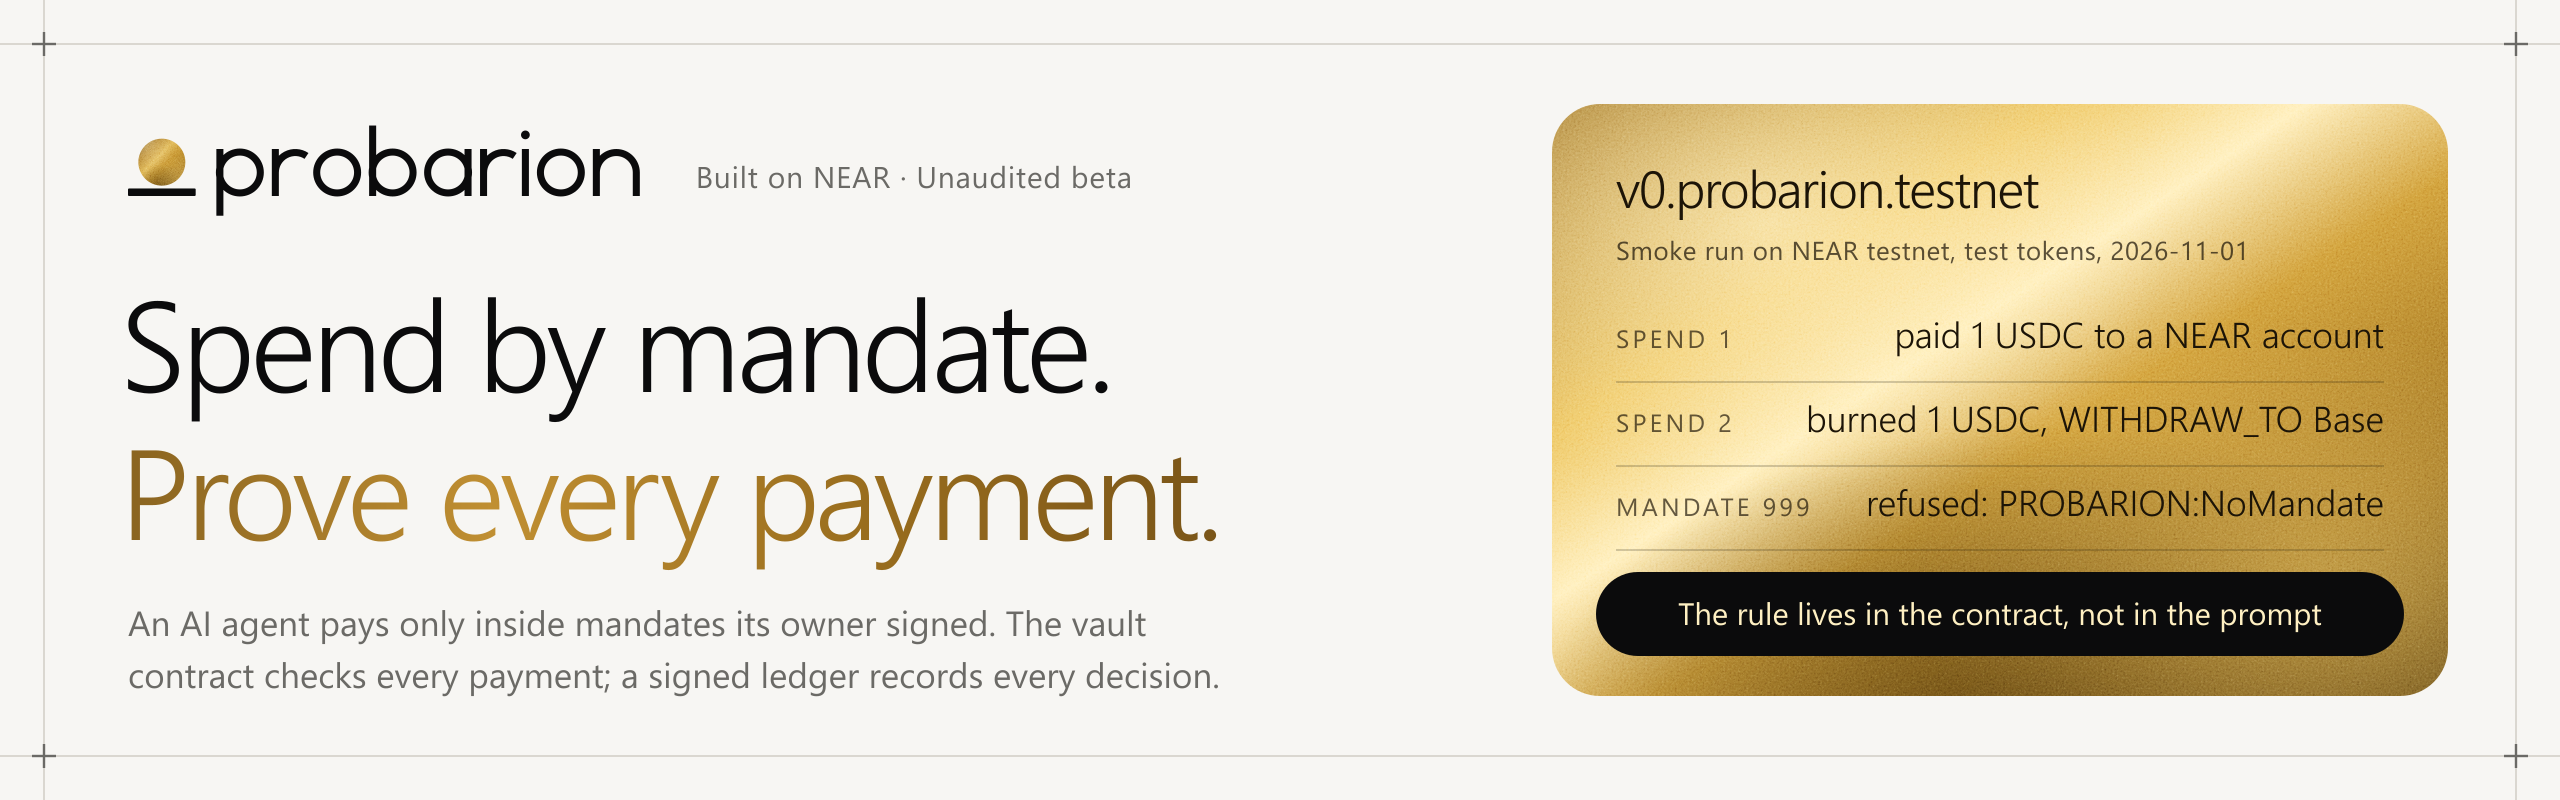
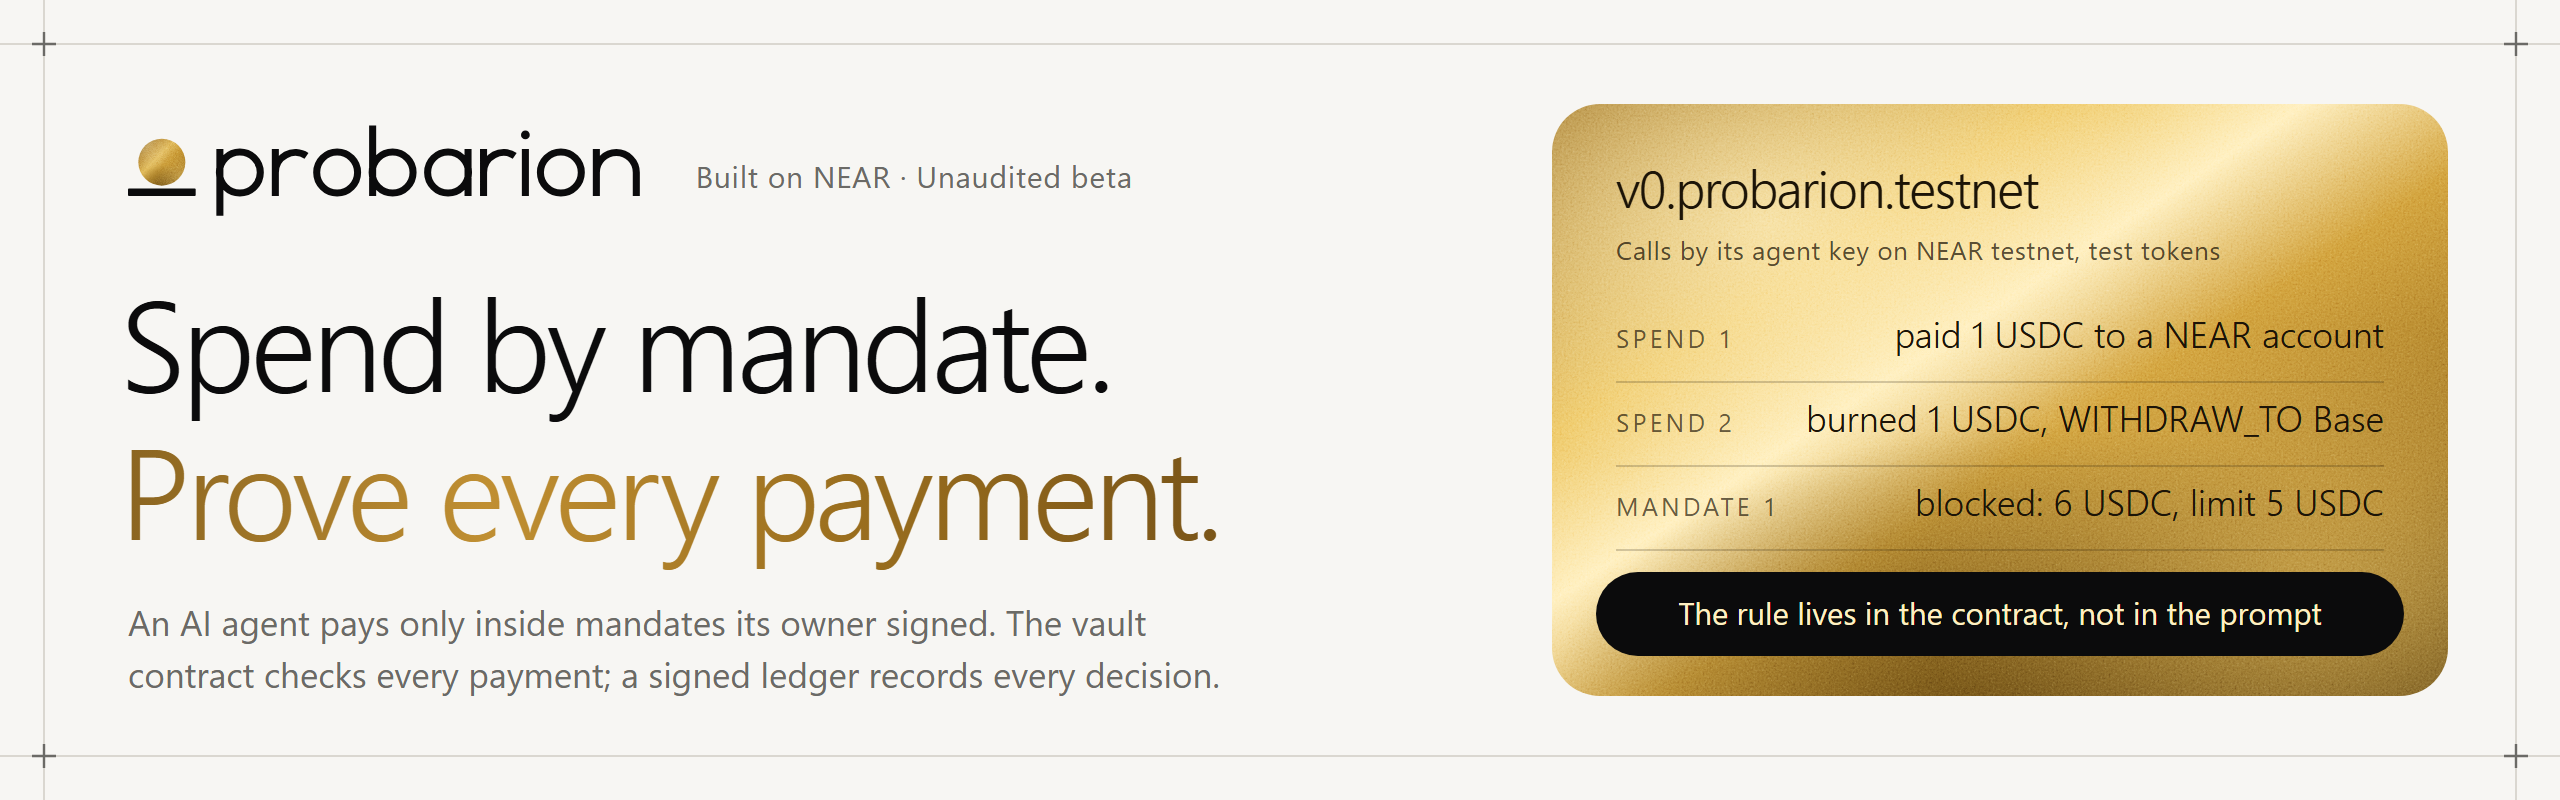
feat(site): hero refusal card shows the real OverPerPayment refusal
The landing's right hero card pointed at the smoke run's call on mandate
999, which does not exist (PROBARION:NoMandate). It now shows the refusal
sent on 2026-11-09 (site audit P1-9): the agent key asked mandate 1 for
6 test USDC, above its 5 USDC limit per payment, and the contract answered
PROBARION:OverPerPayment (tx 4715d4nbYn6cq981nmLU5y8efCoX2w3SbgW8PPq4Vsr1).

- facts.ts: TX.overPerPayment; HERO.refused shows the amount, the limit
  and the code; the note says the agent asked the contract directly.
- Hero.tsx: the card leads with the amount, then Caller, Limit, Code,
  Paid and Tx. The unused cardCode style is removed.
- testnet.json records the tx under direct_refusal.
- README: banner alt text, a new On-chain proof row, and evaluation
  step 3 reads the new tx from the archival node.
- Banner SVG row and subtitle updated; the PNG re-rendered at 2x with
  headless Edge. The SVG falls back to Segoe UI at weight 350, since
  Chromium does not know the "Segoe UI Semilight" family name.

The smoke run's NoMandate refusal stays on the on-chain list.

diff --git a/apps/web/test/site-facts.test.ts b/apps/web/test/site-facts.test.ts
@@ -245,12 +245,14 @@ describe("transactions", () => {
   const deployment = JSON.parse(text(ROOT, "contracts", "deployments", "testnet.json")) as {
     accounts: { vault_v0: string };
     smoke: { near_payment_tx: string; base_burn_tx: string; no_mandate_tx: string };
+    direct_refusal: { over_per_payment_tx: string };
   };
 
   it("match the testnet deployment record and appear in the README", () => {
     expect(TX.nearPayment.hash).toBe(deployment.smoke.near_payment_tx);
     expect(TX.baseBurn.hash).toBe(deployment.smoke.base_burn_tx);
     expect(TX.noMandate.hash).toBe(deployment.smoke.no_mandate_tx);
+    expect(TX.overPerPayment.hash).toBe(deployment.direct_refusal.over_per_payment_tx);
     for (const t of Object.values(TX)) expect(README).toContain(t.hash);
   });
 
@@ -422,10 +424,50 @@ describe("facts the site shares with the README, SECURITY.md and the deployment 
     expect(README).toContain("**Unaudited beta.** No third party has audited this code.");
   });
 
-  it("the code the contract refused with", () => {
-    expect(HERO.refused.code.join("")).toBe("PROBARION:NoMandate");
+  it("the hero's refusal: the agent key asked mandate 1 for more than its limit, and the contract said no", () => {
+    expect(HERO.refused.tx).toBe(TX.overPerPayment);
+    expect(HERO.refused.code).toBe(CONTRACT_REFUSAL_CODE);
+    expect(HERO.refused.mandate).toBe(HERO.paid.mandate);
+    expect(HERO.refused.caller).toBe(HERO.paid.caller);
+    expect(HERO.refused.paid).toBe("Nothing");
+    // The limit is mandate 1's, as step 4 and the README show it; the amount asked is above it.
+    const limit = /at most (\d+) USDC/.exec(JSON.stringify(JOURNEY.steps[3].panel))?.[1];
+    expect(HERO.refused.limit).toBe(`${limit} USDC a payment`);
+    const asked = /^(\d+) test USDC$/.exec(HERO.refused.big)?.[1];
+    expect(Number(asked)).toBeGreaterThan(Number(limit));
+    expect(README).toContain(
+      `The agent key called \`spend\` on mandate 1 for ${asked} test USDC, above its limit of ${limit} test USDC per payment`,
+    );
+    expect(README).toContain(`Refused by the contract: \`PROBARION:${HERO.refused.code}\``);
+    // Signed by the agent key itself, so no off-chain check stood in the way.
+    expect(HERO.note).toContain("asked the contract directly");
+  });
+
+  it("the smoke run's refusal stays on the on-chain list", () => {
     expect(CHAIN.rows[2].body).toContain("`PROBARION:NoMandate`");
     expect(README).toContain("PROBARION:NoMandate");
+  });
+
+  it("the hero cards as a visitor sees them: outcome first, the code below", () => {
+    const out = visibleText(landing());
+    expect(out).toContain(
+      `${HERO.refused.mandate} ${HERO.refused.state} ${HERO.refused.big} Caller ${HERO.refused.caller} Limit ${HERO.refused.limit} Code ${HERO.refused.code} Paid ${HERO.refused.paid} Tx ${HERO.refused.tx.label}`,
+    );
+    expect(HERO.refused.state).toBe("Blocked");
+    expect(out).not.toContain("Mandate 999 Refused");
+  });
+
+  it("the README banner shows the same refusal as the hero", () => {
+    const svg = text(ROOT, "docs", "assets", "readme-banner.svg");
+    const usdc = (s: string) => s.replace(" test", "").replace(" a payment", "");
+    expect(svg).toContain(
+      `>blocked: ${usdc(HERO.refused.big)}, limit ${usdc(HERO.refused.limit)}<`,
+    );
+    expect(svg).toContain(">MANDATE 1<");
+    expect(svg).not.toContain("MANDATE 999");
+    const alt = /<img src="docs\/assets\/readme-banner\.png" alt="([^"]*)"/.exec(README)?.[1] ?? "";
+    expect(alt).toContain(`PROBARION:${HERO.refused.code}`);
+    expect(alt).not.toContain("NoMandate");
   });
 
   it("what the smoke run was, and that mainnet is still planned", () => {

diff --git a/apps/web/src/lib/site/facts.ts b/apps/web/src/lib/site/facts.ts
@@ -100,6 +100,8 @@ export const TX = {
   nearPayment: tx("3DFV2thBU9V4b5w7kM691poLJ8SWiCqp46LKBn1Fy9cX", "3DFV2thB…Fy9cX"),
   baseBurn: tx("3u4ffrwpiwLoNV6cU72NHLVBAMq729NwLs6ixDLdcvYe", "3u4ffrwp…dcvYe"),
   noMandate: tx("AkjyVPmb6LdMES7ykpzJQR7EXXGvw3kYH6Nhem9YdzgY", "AkjyVPmb…dzgY"),
+  // 2026-11-09, after the smoke run: the agent key itself asked mandate 1 for 6 test USDC, above its 5 USDC limit.
+  overPerPayment: tx("4715d4nbYn6cq981nmLU5y8efCoX2w3SbgW8PPq4Vsr1", "4715d4nb…Vsr1"),
 } as const;
 
 // --- hero -----------------------------------------------------------------------------------------
@@ -124,16 +126,17 @@ export const HERO = {
     tx: TX.nearPayment,
   },
   refused: {
-    aria: "A payment the contract refused",
-    mandate: "Mandate 999",
-    state: "Refused",
-    code: ["PROBARION:", "NoMandate"],
+    aria: "A payment the contract blocked",
+    mandate: "Mandate 1",
+    state: "Blocked",
+    big: "6 test USDC",
     caller: "Agent key",
-    payee: "None on record",
+    limit: "5 USDC a payment",
+    code: "OverPerPayment",
     paid: "Nothing",
-    tx: TX.noMandate,
+    tx: TX.overPerPayment,
   },
-  note: "Two real calls by one agent key on `v0.probarion.testnet`, with test tokens. The contract decided both.",
+  note: "Two real calls by one agent key on `v0.probarion.testnet`, with test tokens. For the second, the agent asked the contract directly. The contract decided both.",
 } as const;
 
 export const PROBLEM = {

diff --git a/apps/web/src/components/site/Hero.tsx b/apps/web/src/components/site/Hero.tsx
@@ -54,19 +54,21 @@ function RefusedCard() {
         <span>{c.mandate}</span>
         <span className={s.state}>{c.state}</span>
       </div>
-      <div className={`${s.cardBig} ${s.cardCode}`}>
-        {c.code[0]}
-        <wbr />
-        {c.code[1]}
-      </div>
+      <div className={s.cardBig}>{c.big}</div>
       <dl className={s.rows}>
         <div>
           <dt>Caller</dt>
           <dd>{c.caller}</dd>
         </div>
         <div>
-          <dt>Payee</dt>
-          <dd>{c.payee}</dd>
+          <dt>Limit</dt>
+          <dd>{c.limit}</dd>
+        </div>
+        <div>
+          <dt>Code</dt>
+          <dd>
+            <code>{c.code}</code>
+          </dd>
         </div>
         <div>
           <dt>Paid</dt>

diff --git a/apps/web/src/components/site/site.module.css b/apps/web/src/components/site/site.module.css
@@ -368,14 +368,6 @@ a.netPill:hover {
   letter-spacing: -0.03em;
   overflow-wrap: anywhere;
 }
-.cardCode {
-  font-size: clamp(20px, 1.95vw, 27px);
-  font-family: var(--font-mono);
-  font-weight: 400;
-  letter-spacing: -0.03em;
-  line-height: 1.18;
-  min-height: 2.36em;
-}
 .rows {
   display: grid;
   gap: 0;
@@ -1623,9 +1615,6 @@ a.netPill:hover {
   }
   .duel {
     grid-template-columns: minmax(0, 1fr);
-  }
-  .cardCode {
-    min-height: 0;
   }
   .status {
     grid-template-columns: minmax(0, 1fr);

diff --git a/README.md b/README.md
@@ -1,6 +1,6 @@
 <div align="center">
 
-<img src="docs/assets/readme-banner.png" alt="Probarion. Spend by mandate. Prove every payment. An AI agent pays only inside mandates its owner signed; the vault contract checks every payment and a signed ledger records every decision. In a smoke run on NEAR testnet with test tokens, the vault v0.probarion.testnet paid 1 USDC to a NEAR account, burned 1 USDC with a WITHDRAW_TO memo for a Base address, and refused mandate 999 with PROBARION:NoMandate." width="100%">
+<img src="docs/assets/readme-banner.png" alt="Probarion. Spend by mandate. Prove every payment. An AI agent pays only inside mandates its owner signed; the vault contract checks every payment and a signed ledger records every decision. On NEAR testnet with test tokens, the agent key of the vault v0.probarion.testnet made three calls: one paid 1 USDC to a NEAR account, one burned 1 USDC with a WITHDRAW_TO memo for a Base address, and the contract blocked one of 6 USDC on mandate 1, whose limit is 5 USDC a payment, with PROBARION:OverPerPayment." width="100%">
 
 # Probarion
 
@@ -127,13 +127,14 @@ signs nothing and pays nothing. If no RPC host answers, the page shows the answe
    node scripts/testnet/chain.mjs key-count v0.probarion.testnet         # 1: the agent's spend-only key
    ```
 
-   Then read the three smoke transactions from an archival node:
+   Then read the three smoke transactions, and the refusal the landing page shows, from an archival node:
 
    ```bash
    tx() { curl -s https://archival-rpc.testnet.fastnear.com -H 'Content-Type: application/json' -d "{\"jsonrpc\":\"2.0\",\"id\":1,\"method\":\"tx\",\"params\":{\"tx_hash\":\"$1\",\"sender_account_id\":\"v0.probarion.testnet\",\"wait_until\":\"NONE\"}}"; }
    tx 3DFV2thBU9V4b5w7kM691poLJ8SWiCqp46LKBn1Fy9cX | grep -o 'spend_paid' | sort -u                  # spend_paid
    tx 3u4ffrwpiwLoNV6cU72NHLVBAMq729NwLs6ixDLdcvYe | grep -o 'WITHDRAW_TO:0x[0-9a-f]*' | sort -u     # the burn memo, built from the mandate
    tx AkjyVPmb6LdMES7ykpzJQR7EXXGvw3kYH6Nhem9YdzgY | grep -o 'PROBARION:[A-Za-z]*' | sort -u         # PROBARION:NoMandate
+   tx 4715d4nbYn6cq981nmLU5y8efCoX2w3SbgW8PPq4Vsr1 | grep -o 'PROBARION:[A-Za-z]*' | sort -u         # PROBARION:OverPerPayment
    ```
 
 4. **Ask the vault itself.** A read-only `Probarion` instance (no keys, `model: null`) lists the
@@ -368,6 +369,7 @@ the burn's tx hash.
 | The agent key called `spend` on mandate 1, a NEAR payee | [`3DFV2thB…Fy9cX`](https://testnet.nearblocks.io/txns/3DFV2thBU9V4b5w7kM691poLJ8SWiCqp46LKBn1Fy9cX) | Spend 1 `paid`: 1 test USDC to `probarion-payee.testnet` (`spend_submitted`, `ft_transfer`, `spend_paid`) |
 | The agent key called `spend` on mandate 2, a Base payee | [`3u4ffrwp…dcvYe`](https://testnet.nearblocks.io/txns/3u4ffrwpiwLoNV6cU72NHLVBAMq729NwLs6ixDLdcvYe) | Spend 2 `burned`: 1 test USDC, `mt_burn` and `ft_burn` with the memo `WITHDRAW_TO:0x1111111111111111111111111111111111111111` the vault built from the mandate |
 | The agent key called `spend` on mandate 999, which does not exist | [`AkjyVPmb…dzgY`](https://testnet.nearblocks.io/txns/AkjyVPmb6LdMES7ykpzJQR7EXXGvw3kYH6Nhem9YdzgY) | Refused by the contract: `PROBARION:NoMandate` |
+| The agent key called `spend` on mandate 1 for 6 test USDC, above its limit of 5 test USDC per payment (2026-11-09, after the smoke run) | [`4715d4nb…Vsr1`](https://testnet.nearblocks.io/txns/4715d4nbYn6cq981nmLU5y8efCoX2w3SbgW8PPq4Vsr1) | Refused by the contract: `PROBARION:OverPerPayment`. Nothing was paid, and no call reached the USDC contract |
 
 NearBlocks' testnet index can lag behind the chain. Step 3 of
 [the evaluation](#how-to-evaluate-probarion-in-5-minutes) reads the same transactions from an archival
